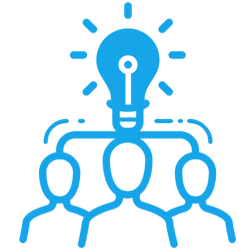
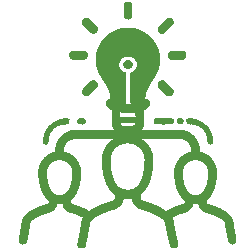
Cambio de color.
Colaborador: IagoVL

diff --git a/Primera Version/index.html b/Primera Version/index.html
@@ -201,7 +201,7 @@
                               style="z-index: 7; white-space: nowrap;"> our Data Our Security </div>
             </li>
             
-            <li data-index="rs-b4" data-transition="zoomin" data-slotamount="7"  data-easein="Power4.easeInOut" data-easeout="Power4.easeInOut" data-masterspeed="2000"  data-thumb="images/it_service/slide6.jpg"  data-rotate="0"  data-saveperformance="off"  data-title="Seguridad" data-description="">
+            <li data-index="rs-b4" data-transition="zoomin" data-slotamount="7"  data-easein="Power4.easeInOut" data-easeout="Power4.easeInOut" data-masterspeed="2000"  data-thumb="images/it_service/slide6."  data-rotate="0"  data-saveperformance="off"  data-title="Seguridad" data-description="">
               <!-- MAIN IMAGE -->
               <img src="images/it_service/slide6.jpg"  alt=""  data-bgposition="center center" data-kenburns="on" data-duration="30000" data-ease="Linear.easeNone" data-scalestart="100" data-scaleend="120" data-rotatestart="0" data-rotateend="0" data-offsetstart="0 0" data-offsetend="0 0" data-bgparallax="10" class="rev-slidebg" data-no-retina>
               <!-- LAYERS -->

diff --git a/Primera Version/css/style.css b/Primera Version/css/style.css
@@ -774,7 +774,7 @@ hr.dottad_border {
 	margin: 20px auto 0;
 	width: 80px;
 	height: 5px;
-	background: #17a5e9;
+	background: rgba(40, 167, 69, 0.38);
 }
 
 .main_heading.text_align_left::after {
@@ -3490,7 +3490,7 @@ footer ul.social_icons {
 
 .gross_layout::before {
 	position: absolute;
-	background: rgba(3, 158, 227, 0.8);
+	background:#28a74561;
 	width: 35%;
 	height: 100%;
 	right: 0;
@@ -4902,7 +4902,7 @@ h3 {
 	color: #333333
 }
 h4 {
-	color: #17a5e9
+	color: rgb(42, 158, 77);
 }
 h5 {
 	color: #333333
